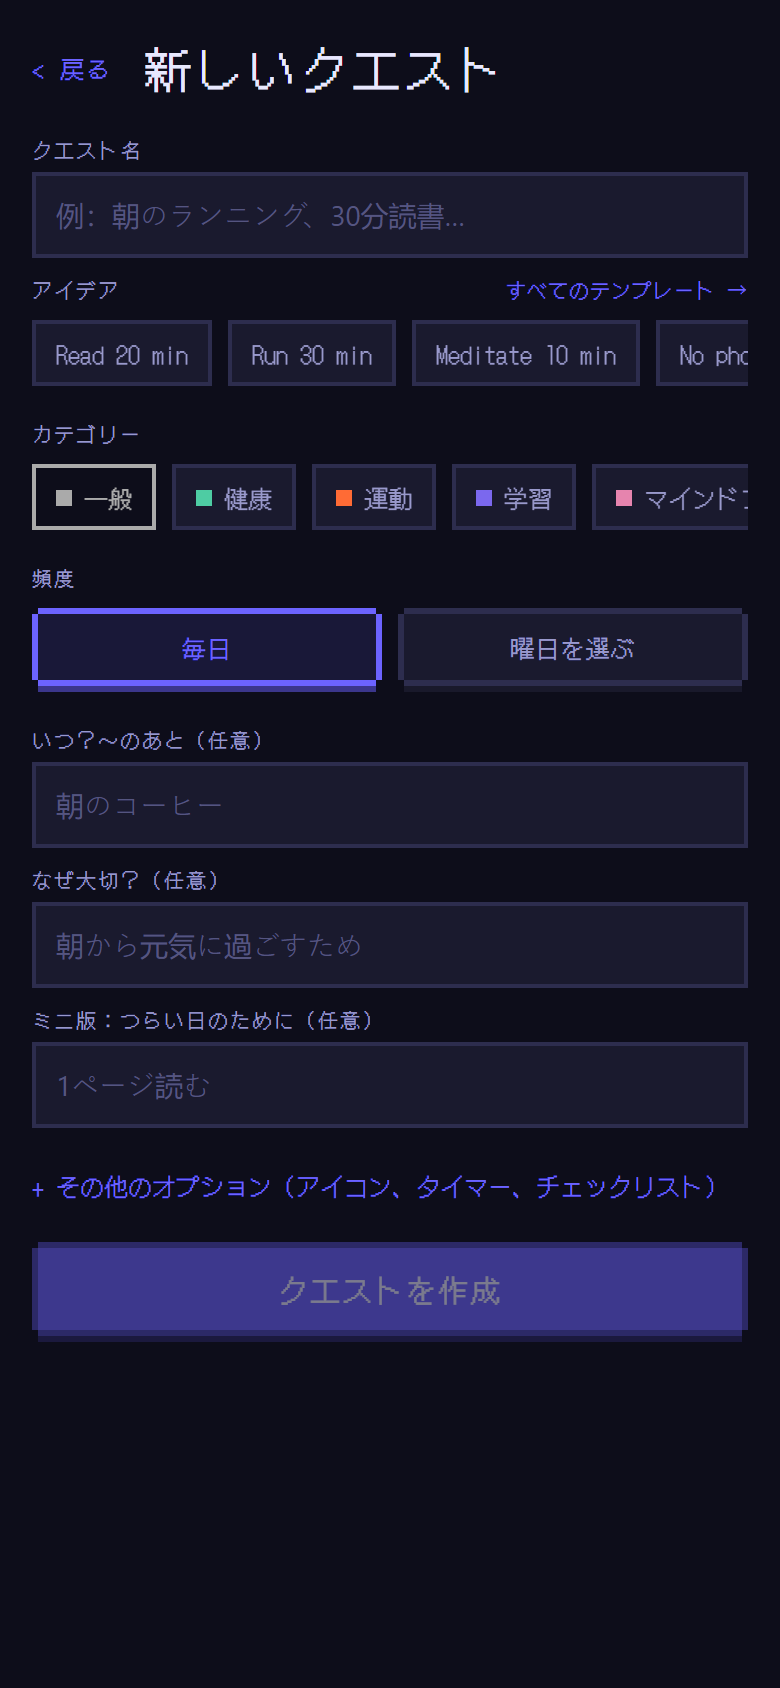
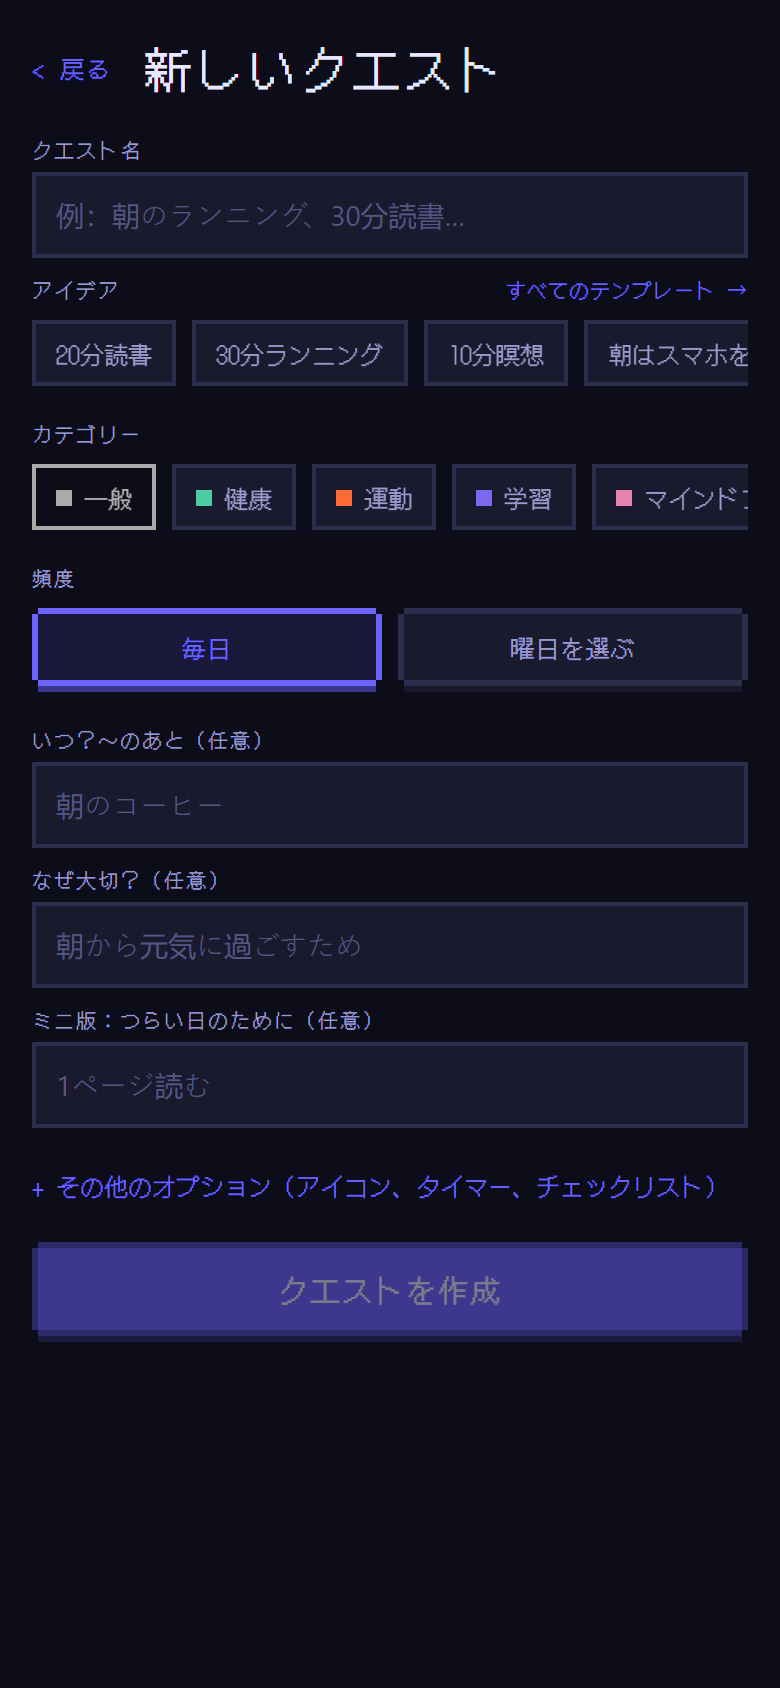
fix(habits): quest templates and ideas in Japanese
Battiste: the quest names in the templates and the one-tap ideas were
not translated. Templates only had French and English names, so the
Japanese app showed "Read 20 min", "Run 30 min"… in English.
- name_ja for the 35 templates, and templateName(t, lang) used by the
  create screen ideas and the templates screen.
- Test: every template has a name in each language.
- Japanese screenshots for the marketing kit redone (the create screen
  showed the English ideas).

Claude-Session: https://claude.ai/code/session_01Eys7kWVc1zDTJfAqSJXv3r

Changed region(s): [[0.0923, 0.1848, 0.9538, 0.2464]]

diff --git a/src/lib/constants/habit-templates.ts b/src/lib/constants/habit-templates.ts
@@ -4,6 +4,7 @@ export interface HabitTemplate {
   id: string;
   name_fr: string;
   name_en: string;
+  name_ja: string;
   category: HabitCategory;
   emoji: string;
   frequency: 'daily' | '3x_week' | '5x_week';
@@ -11,57 +12,62 @@ export interface HabitTemplate {
 
 export const HABIT_TEMPLATES: HabitTemplate[] = [
   // Health
-  { id: 'sleep',        name_fr: 'Dormir 8h',               name_en: 'Sleep 8 hours',           category: 'sleep',        emoji: '😴', frequency: 'daily' },
-  { id: 'vitamins',     name_fr: 'Prendre mes vitamines',   name_en: 'Take vitamins',           category: 'health',       emoji: '💊', frequency: 'daily' },
-  { id: 'no_alcohol',   name_fr: 'Pas d\'alcool',           name_en: 'No alcohol',              category: 'health',       emoji: '🚫', frequency: 'daily' },
-  { id: 'no_sugar',     name_fr: 'Pas de sucre ajouté',     name_en: 'No added sugar',         category: 'nutrition',    emoji: '🍬', frequency: 'daily' },
-  { id: 'veggies',      name_fr: '5 portions de légumes',   name_en: '5 veggie servings',      category: 'nutrition',    emoji: '🥦', frequency: 'daily' },
+  { id: 'sleep',        name_fr: 'Dormir 8h',               name_en: 'Sleep 8 hours', name_ja: '8時間寝る',           category: 'sleep',        emoji: '😴', frequency: 'daily' },
+  { id: 'vitamins',     name_fr: 'Prendre mes vitamines',   name_en: 'Take vitamins', name_ja: 'ビタミンを飲む',           category: 'health',       emoji: '💊', frequency: 'daily' },
+  { id: 'no_alcohol',   name_fr: 'Pas d\'alcool',           name_en: 'No alcohol', name_ja: 'お酒を飲まない',              category: 'health',       emoji: '🚫', frequency: 'daily' },
+  { id: 'no_sugar',     name_fr: 'Pas de sucre ajouté',     name_en: 'No added sugar', name_ja: '砂糖をひかえる',         category: 'nutrition',    emoji: '🍬', frequency: 'daily' },
+  { id: 'veggies',      name_fr: '5 portions de légumes',   name_en: '5 veggie servings', name_ja: '野菜を5皿食べる',      category: 'nutrition',    emoji: '🥦', frequency: 'daily' },
 
   // Fitness
-  { id: 'run',          name_fr: 'Courir 30 min',           name_en: 'Run 30 min',             category: 'fitness',      emoji: '🏃', frequency: 'daily' },
-  { id: 'pushups',      name_fr: '20 pompes',               name_en: '20 push-ups',            category: 'fitness',      emoji: '💪', frequency: 'daily' },
-  { id: 'gym',          name_fr: 'Aller à la salle',        name_en: 'Go to the gym',          category: 'fitness',      emoji: '🏋', frequency: '3x_week' },
-  { id: 'walk',         name_fr: 'Marcher 10 000 pas',      name_en: 'Walk 10 000 steps',      category: 'fitness',      emoji: '🚶', frequency: 'daily' },
-  { id: 'stretch',      name_fr: 'Étirements 10 min',       name_en: 'Stretch 10 min',         category: 'fitness',      emoji: '🤸', frequency: 'daily' },
-  { id: 'yoga',         name_fr: 'Yoga 20 min',             name_en: 'Yoga 20 min',            category: 'mindfulness',  emoji: '🧘', frequency: '3x_week' },
-  { id: 'cycling',      name_fr: 'Vélo 30 min',             name_en: 'Cycling 30 min',         category: 'fitness',      emoji: '🚴', frequency: '3x_week' },
+  { id: 'run',          name_fr: 'Courir 30 min',           name_en: 'Run 30 min', name_ja: '30分ランニング',             category: 'fitness',      emoji: '🏃', frequency: 'daily' },
+  { id: 'pushups',      name_fr: '20 pompes',               name_en: '20 push-ups', name_ja: '腕立て20回',            category: 'fitness',      emoji: '💪', frequency: 'daily' },
+  { id: 'gym',          name_fr: 'Aller à la salle',        name_en: 'Go to the gym', name_ja: 'ジムに行く',          category: 'fitness',      emoji: '🏋', frequency: '3x_week' },
+  { id: 'walk',         name_fr: 'Marcher 10 000 pas',      name_en: 'Walk 10 000 steps', name_ja: '1万歩あるく',      category: 'fitness',      emoji: '🚶', frequency: 'daily' },
+  { id: 'stretch',      name_fr: 'Étirements 10 min',       name_en: 'Stretch 10 min', name_ja: '10分ストレッチ',         category: 'fitness',      emoji: '🤸', frequency: 'daily' },
+  { id: 'yoga',         name_fr: 'Yoga 20 min',             name_en: 'Yoga 20 min', name_ja: '20分ヨガ',            category: 'mindfulness',  emoji: '🧘', frequency: '3x_week' },
+  { id: 'cycling',      name_fr: 'Vélo 30 min',             name_en: 'Cycling 30 min', name_ja: '30分サイクリング',         category: 'fitness',      emoji: '🚴', frequency: '3x_week' },
 
   // Mindfulness
-  { id: 'meditate',     name_fr: 'Méditer 10 min',          name_en: 'Meditate 10 min',        category: 'mindfulness',  emoji: '🧘', frequency: 'daily' },
-  { id: 'journal',      name_fr: 'Écrire dans mon journal', name_en: 'Write in journal',       category: 'mindfulness',  emoji: '📓', frequency: 'daily' },
-  { id: 'gratitude',    name_fr: '3 gratitudes',            name_en: '3 gratitudes',           category: 'mindfulness',  emoji: '🙏', frequency: 'daily' },
-  { id: 'breathe',      name_fr: 'Respiration profonde',    name_en: 'Deep breathing',         category: 'mindfulness',  emoji: '🌬', frequency: 'daily' },
-  { id: 'no_phone_am',  name_fr: 'Pas d\'écran au réveil',  name_en: 'No phone in the morning',category: 'mindfulness',  emoji: '📵', frequency: 'daily' },
+  { id: 'meditate',     name_fr: 'Méditer 10 min',          name_en: 'Meditate 10 min', name_ja: '10分瞑想',        category: 'mindfulness',  emoji: '🧘', frequency: 'daily' },
+  { id: 'journal',      name_fr: 'Écrire dans mon journal', name_en: 'Write in journal', name_ja: '日記を書く',       category: 'mindfulness',  emoji: '📓', frequency: 'daily' },
+  { id: 'gratitude',    name_fr: '3 gratitudes',            name_en: '3 gratitudes', name_ja: '感謝を3つ書く',           category: 'mindfulness',  emoji: '🙏', frequency: 'daily' },
+  { id: 'breathe',      name_fr: 'Respiration profonde',    name_en: 'Deep breathing', name_ja: '深呼吸する',         category: 'mindfulness',  emoji: '🌬', frequency: 'daily' },
+  { id: 'no_phone_am',  name_fr: 'Pas d\'écran au réveil',  name_en: 'No phone in the morning', name_ja: '朝はスマホを見ない',category: 'mindfulness',  emoji: '📵', frequency: 'daily' },
 
   // Learning
-  { id: 'read',         name_fr: 'Lire 20 min',             name_en: 'Read 20 min',            category: 'learning',     emoji: '📚', frequency: 'daily' },
-  { id: 'language',     name_fr: 'Apprendre une langue',    name_en: 'Language practice',      category: 'learning',     emoji: '🗣', frequency: 'daily' },
-  { id: 'podcast',      name_fr: 'Écouter un podcast éducatif', name_en: 'Educational podcast',category: 'learning',     emoji: '🎧', frequency: 'daily' },
-  { id: 'course',       name_fr: 'Avancer sur ma formation',name_en: 'Online course progress', category: 'learning',     emoji: '🎓', frequency: '5x_week' },
-  { id: 'flashcards',   name_fr: 'Réviser mes cartes',      name_en: 'Review flashcards',      category: 'learning',     emoji: '🃏', frequency: 'daily' },
+  { id: 'read',         name_fr: 'Lire 20 min',             name_en: 'Read 20 min', name_ja: '20分読書',            category: 'learning',     emoji: '📚', frequency: 'daily' },
+  { id: 'language',     name_fr: 'Apprendre une langue',    name_en: 'Language practice', name_ja: '語学の勉強',      category: 'learning',     emoji: '🗣', frequency: 'daily' },
+  { id: 'podcast',      name_fr: 'Écouter un podcast éducatif', name_en: 'Educational podcast', name_ja: '学べるポッドキャストを聴く',category: 'learning',     emoji: '🎧', frequency: 'daily' },
+  { id: 'course',       name_fr: 'Avancer sur ma formation',name_en: 'Online course progress', name_ja: 'オンライン講座を進める', category: 'learning',     emoji: '🎓', frequency: '5x_week' },
+  { id: 'flashcards',   name_fr: 'Réviser mes cartes',      name_en: 'Review flashcards', name_ja: '単語カードを復習',      category: 'learning',     emoji: '🃏', frequency: 'daily' },
 
   // Productivity
-  { id: 'planning',     name_fr: 'Planifier ma journée',    name_en: 'Plan my day',            category: 'productivity', emoji: '📅', frequency: 'daily' },
-  { id: 'review',       name_fr: 'Revue de fin de journée', name_en: 'Evening review',         category: 'productivity', emoji: '✅', frequency: 'daily' },
-  { id: 'inbox_zero',   name_fr: 'Vider ma boîte mail',     name_en: 'Clear inbox',            category: 'productivity', emoji: '📧', frequency: 'daily' },
-  { id: 'deep_work',    name_fr: '2h de travail concentré', name_en: '2h of deep work',        category: 'productivity', emoji: '🎯', frequency: 'daily' },
-  { id: 'no_social',    name_fr: 'Pas de réseaux sociaux',  name_en: 'No social media',       category: 'productivity', emoji: '🔕', frequency: 'daily' },
+  { id: 'planning',     name_fr: 'Planifier ma journée',    name_en: 'Plan my day', name_ja: '1日の計画を立てる',            category: 'productivity', emoji: '📅', frequency: 'daily' },
+  { id: 'review',       name_fr: 'Revue de fin de journée', name_en: 'Evening review', name_ja: '夜のふりかえり',         category: 'productivity', emoji: '✅', frequency: 'daily' },
+  { id: 'inbox_zero',   name_fr: 'Vider ma boîte mail',     name_en: 'Clear inbox', name_ja: 'メールを片づける',            category: 'productivity', emoji: '📧', frequency: 'daily' },
+  { id: 'deep_work',    name_fr: '2h de travail concentré', name_en: '2h of deep work', name_ja: '2時間集中して作業',        category: 'productivity', emoji: '🎯', frequency: 'daily' },
+  { id: 'no_social',    name_fr: 'Pas de réseaux sociaux',  name_en: 'No social media', name_ja: 'SNSを見ない',       category: 'productivity', emoji: '🔕', frequency: 'daily' },
 
   // Social
-  { id: 'call_family',  name_fr: 'Appeler un proche',       name_en: 'Call a loved one',       category: 'social',       emoji: '📞', frequency: '3x_week' },
-  { id: 'compliment',   name_fr: 'Faire un compliment',     name_en: 'Give a compliment',      category: 'social',       emoji: '😊', frequency: 'daily' },
+  { id: 'call_family',  name_fr: 'Appeler un proche',       name_en: 'Call a loved one', name_ja: '大切な人に電話する',       category: 'social',       emoji: '📞', frequency: '3x_week' },
+  { id: 'compliment',   name_fr: 'Faire un compliment',     name_en: 'Give a compliment', name_ja: '誰かをほめる',      category: 'social',       emoji: '😊', frequency: 'daily' },
 
   // Finance
-  { id: 'budget',       name_fr: 'Suivre mes dépenses',     name_en: 'Track expenses',         category: 'finance',      emoji: '💰', frequency: 'daily' },
-  { id: 'no_impulse',   name_fr: 'Pas d\'achat impulsif',   name_en: 'No impulse buying',      category: 'finance',      emoji: '🛍', frequency: 'daily' },
-  { id: 'save',         name_fr: 'Épargner aujourd\'hui',   name_en: 'Save money today',       category: 'finance',      emoji: '🏦', frequency: 'daily' },
+  { id: 'budget',       name_fr: 'Suivre mes dépenses',     name_en: 'Track expenses', name_ja: '支出を記録する',         category: 'finance',      emoji: '💰', frequency: 'daily' },
+  { id: 'no_impulse',   name_fr: 'Pas d\'achat impulsif',   name_en: 'No impulse buying', name_ja: '衝動買いをしない',      category: 'finance',      emoji: '🛍', frequency: 'daily' },
+  { id: 'save',         name_fr: 'Épargner aujourd\'hui',   name_en: 'Save money today', name_ja: '今日も貯金する',       category: 'finance',      emoji: '🏦', frequency: 'daily' },
 
   // Creativity
-  { id: 'draw',         name_fr: 'Dessiner 15 min',         name_en: 'Draw 15 min',            category: 'creativity',   emoji: '🎨', frequency: 'daily' },
-  { id: 'music',        name_fr: 'Jouer de la musique',     name_en: 'Practice instrument',    category: 'creativity',   emoji: '🎵', frequency: 'daily' },
-  { id: 'write',        name_fr: 'Écrire 500 mots',         name_en: 'Write 500 words',        category: 'creativity',   emoji: '✍', frequency: 'daily' },
+  { id: 'draw',         name_fr: 'Dessiner 15 min',         name_en: 'Draw 15 min', name_ja: '15分お絵かき',            category: 'creativity',   emoji: '🎨', frequency: 'daily' },
+  { id: 'music',        name_fr: 'Jouer de la musique',     name_en: 'Practice instrument', name_ja: '楽器の練習',    category: 'creativity',   emoji: '🎵', frequency: 'daily' },
+  { id: 'write',        name_fr: 'Écrire 500 mots',         name_en: 'Write 500 words', name_ja: '500字書く',        category: 'creativity',   emoji: '✍', frequency: 'daily' },
 ];
 
 export function getTemplatesByCategory(category: string): HabitTemplate[] {
   return HABIT_TEMPLATES.filter((t) => t.category === category);
+}
+
+/** The template's name in the player's language. */
+export function templateName(t: HabitTemplate, lang: string): string {
+  return lang === 'fr' ? t.name_fr : lang === 'ja' ? t.name_ja : t.name_en;
 }

diff --git a/app/habit/templates.tsx b/app/habit/templates.tsx
@@ -13,7 +13,7 @@ import { useSafeAreaInsets } from 'react-native-safe-area-context';
 import { colors, spacing, fontSizes, borderRadius, fonts, pixelSize } from '../../src/ui/theme/tokens';
 import { useTheme } from '../../src/ui/theme/theme-context';
 import { useT, lang$ } from '../../src/lib/i18n';
-import { HABIT_TEMPLATES } from '../../src/lib/constants/habit-templates';
+import { HABIT_TEMPLATES, templateName } from '../../src/lib/constants/habit-templates';
 import { CATEGORY_CONFIG } from '../../src/lib/constants/categories';
 import { categoryLabel } from '../../src/lib/i18n/labels';
 import { use$ } from '@legendapp/state/react';
@@ -124,7 +124,7 @@ export default function HabitTemplatesScreen() {
   const filtered = useMemo(() => {
     const q = search.toLowerCase().trim();
     return HABIT_TEMPLATES.filter((t) => {
-      const name = lang === 'fr' ? t.name_fr : t.name_en;
+      const name = templateName(t, lang);
       const matchSearch = !q || name.toLowerCase().includes(q);
       const matchCat = selectedCategory === 'all' || t.category === selectedCategory;
       return matchSearch && matchCat;
@@ -196,7 +196,7 @@ export default function HabitTemplatesScreen() {
         keyExtractor={(t) => t.id}
         contentContainerStyle={styles.list}
         renderItem={({ item }) => {
-          const name = lang === 'fr' ? item.name_fr : item.name_en;
+          const name = templateName(item, lang);
           const catCfg = CATEGORY_CONFIG[item.category as keyof typeof CATEGORY_CONFIG];
           return (
             <Pressable

diff --git a/app/habit/create.tsx b/app/habit/create.tsx
@@ -20,7 +20,7 @@ import { colors, spacing, fontSizes, fonts, pixelSize } from '../../src/ui/theme
 import { useTheme } from '../../src/ui/theme/theme-context';
 import { useT, lang$ } from '../../src/lib/i18n';
 import { use$ } from '@legendapp/state/react';
-import { HABIT_TEMPLATES, type HabitTemplate } from '../../src/lib/constants/habit-templates';
+import { HABIT_TEMPLATES, templateName as nameIn, type HabitTemplate } from '../../src/lib/constants/habit-templates';
 import { categoryLabel } from '../../src/lib/i18n/labels';
 
 /** One-tap ideas shown under the name (full list: templates screen). */
@@ -70,7 +70,7 @@ export default function CreateHabitScreen() {
   const { templateId } = useLocalSearchParams<{ templateId?: string }>();
 
   const prefilledTemplate = templateId ? HABIT_TEMPLATES.find((t) => t.id === templateId) : null;
-  const templateName = (t: HabitTemplate) => (lang === 'fr' ? t.name_fr : t.name_en);
+  const templateName = (t: HabitTemplate) => nameIn(t, lang);
   const ideas = useMemo(
     () => IDEA_IDS.map((id) => HABIT_TEMPLATES.find((t) => t.id === id)).filter((t): t is HabitTemplate => !!t),
     [],

diff --git a/src/lib/constants/__tests__/habit-templates.test.ts b/src/lib/constants/__tests__/habit-templates.test.ts
@@ -1,0 +1,21 @@
+/**
+ * Quest templates and one-tap ideas: every name exists in each app language
+ * (Japanese was missing and fell back to English).
+ */
+import { HABIT_TEMPLATES, templateName } from '../habit-templates';
+
+describe('quest templates', () => {
+  it('have a name in French, English and Japanese', () => {
+    for (const t of HABIT_TEMPLATES) {
+      expect([t.id, !!t.name_fr, !!t.name_en, !!t.name_ja]).toEqual([t.id, true, true, true]);
+      expect(t.name_ja).not.toBe(t.name_en);
+    }
+  });
+
+  it('show the name in the player language', () => {
+    const read = HABIT_TEMPLATES.find((t) => t.id === 'read')!;
+    expect(templateName(read, 'fr')).toBe('Lire 20 min');
+    expect(templateName(read, 'en')).toBe('Read 20 min');
+    expect(templateName(read, 'ja')).toBe('20分読書');
+  });
+});
